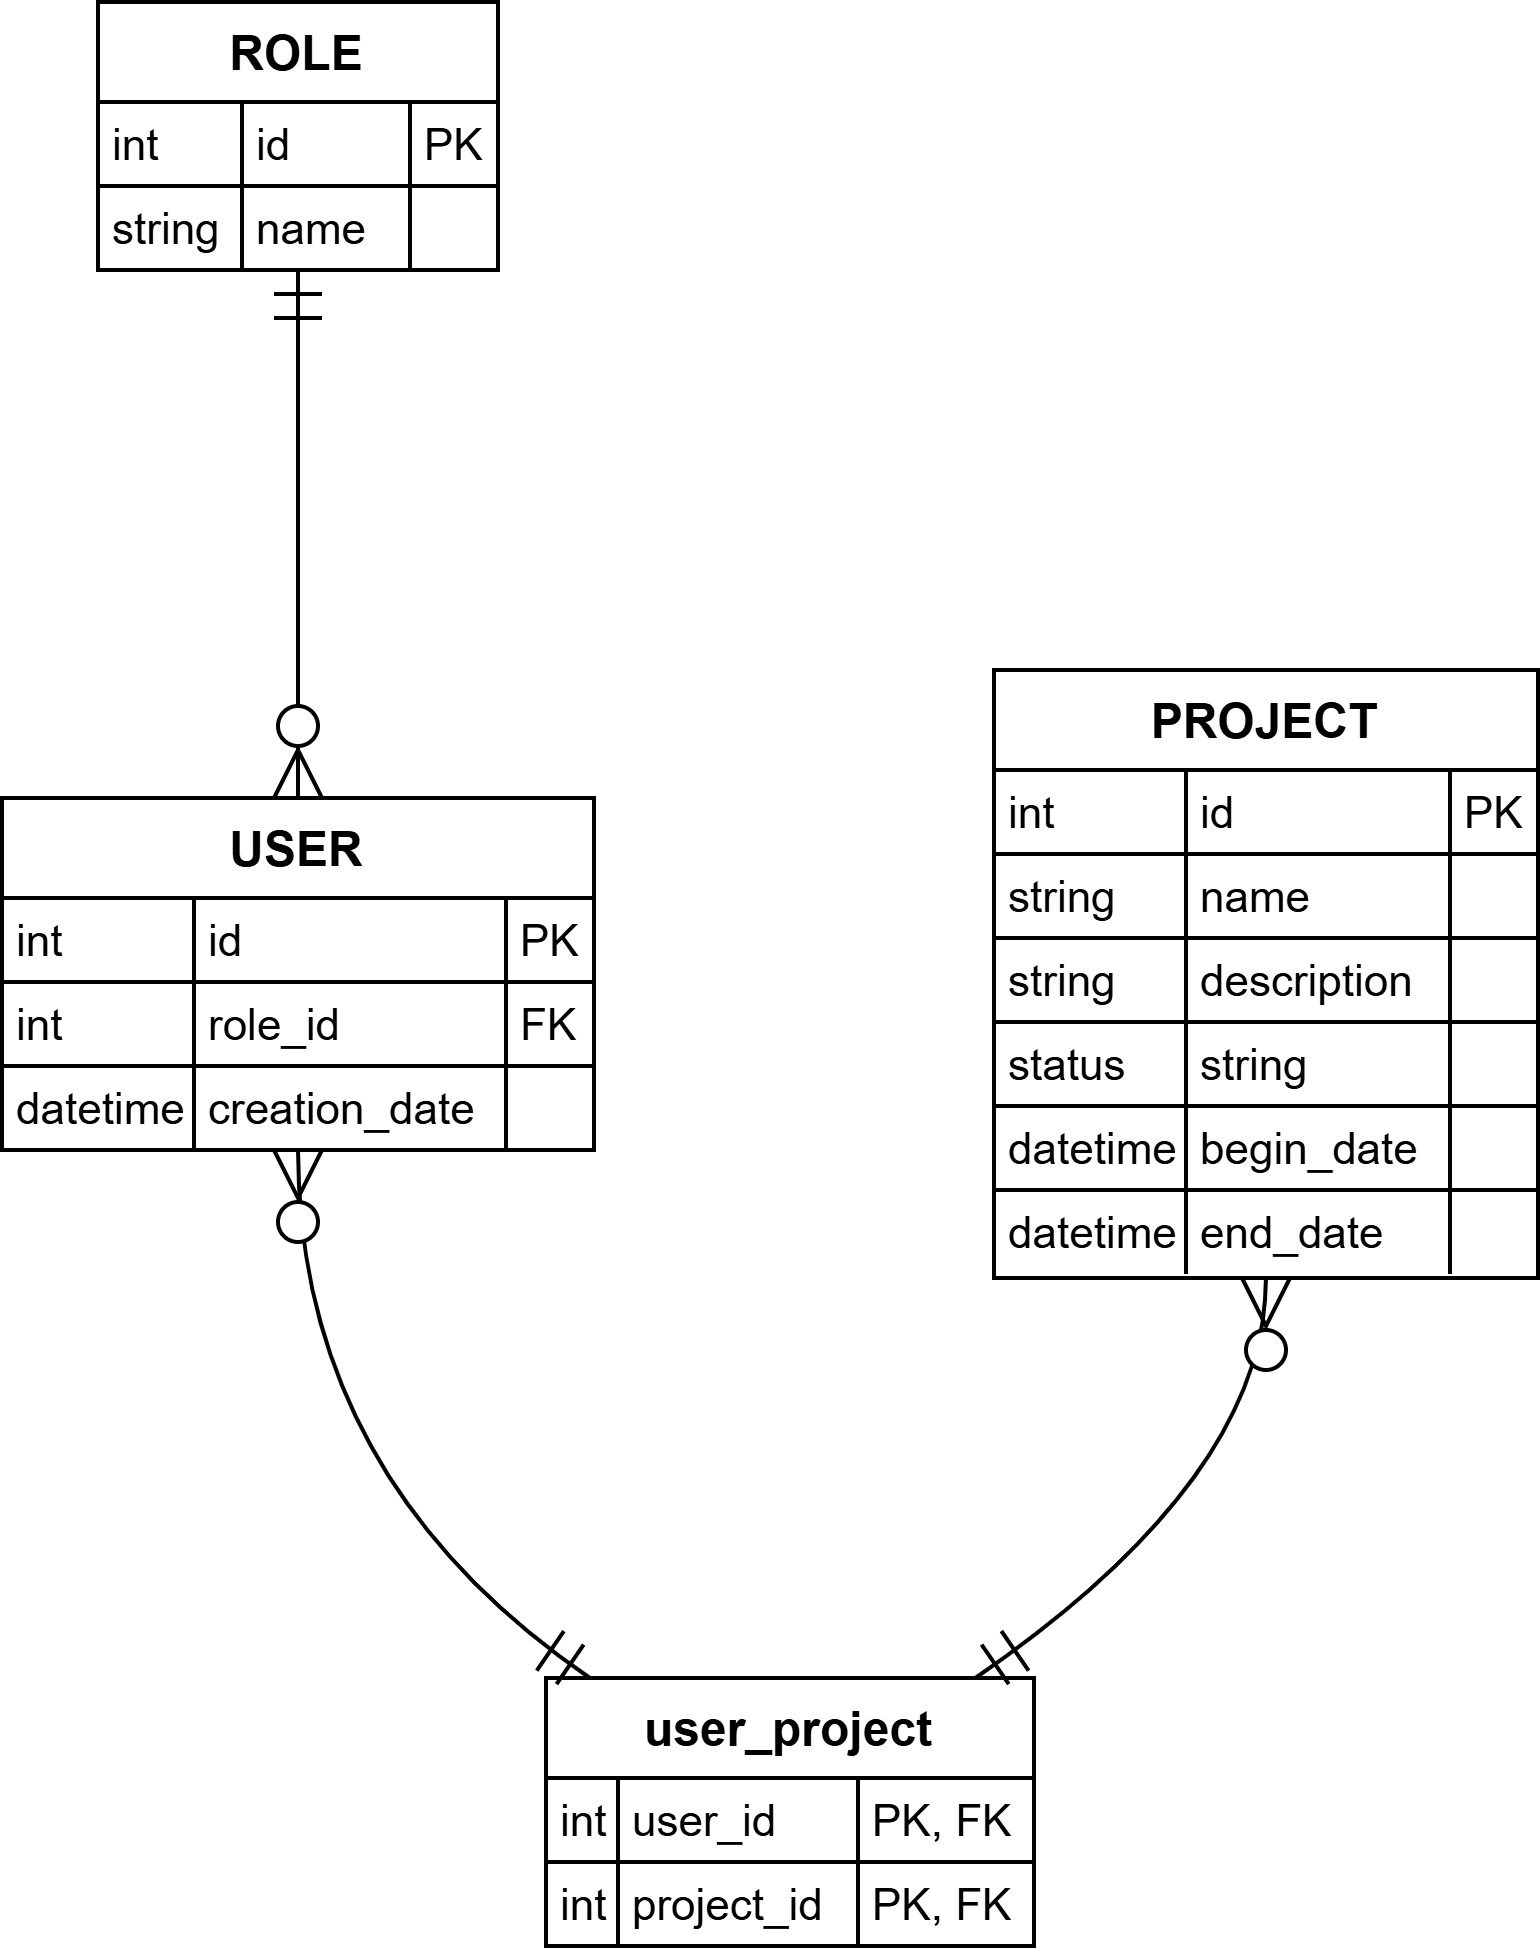
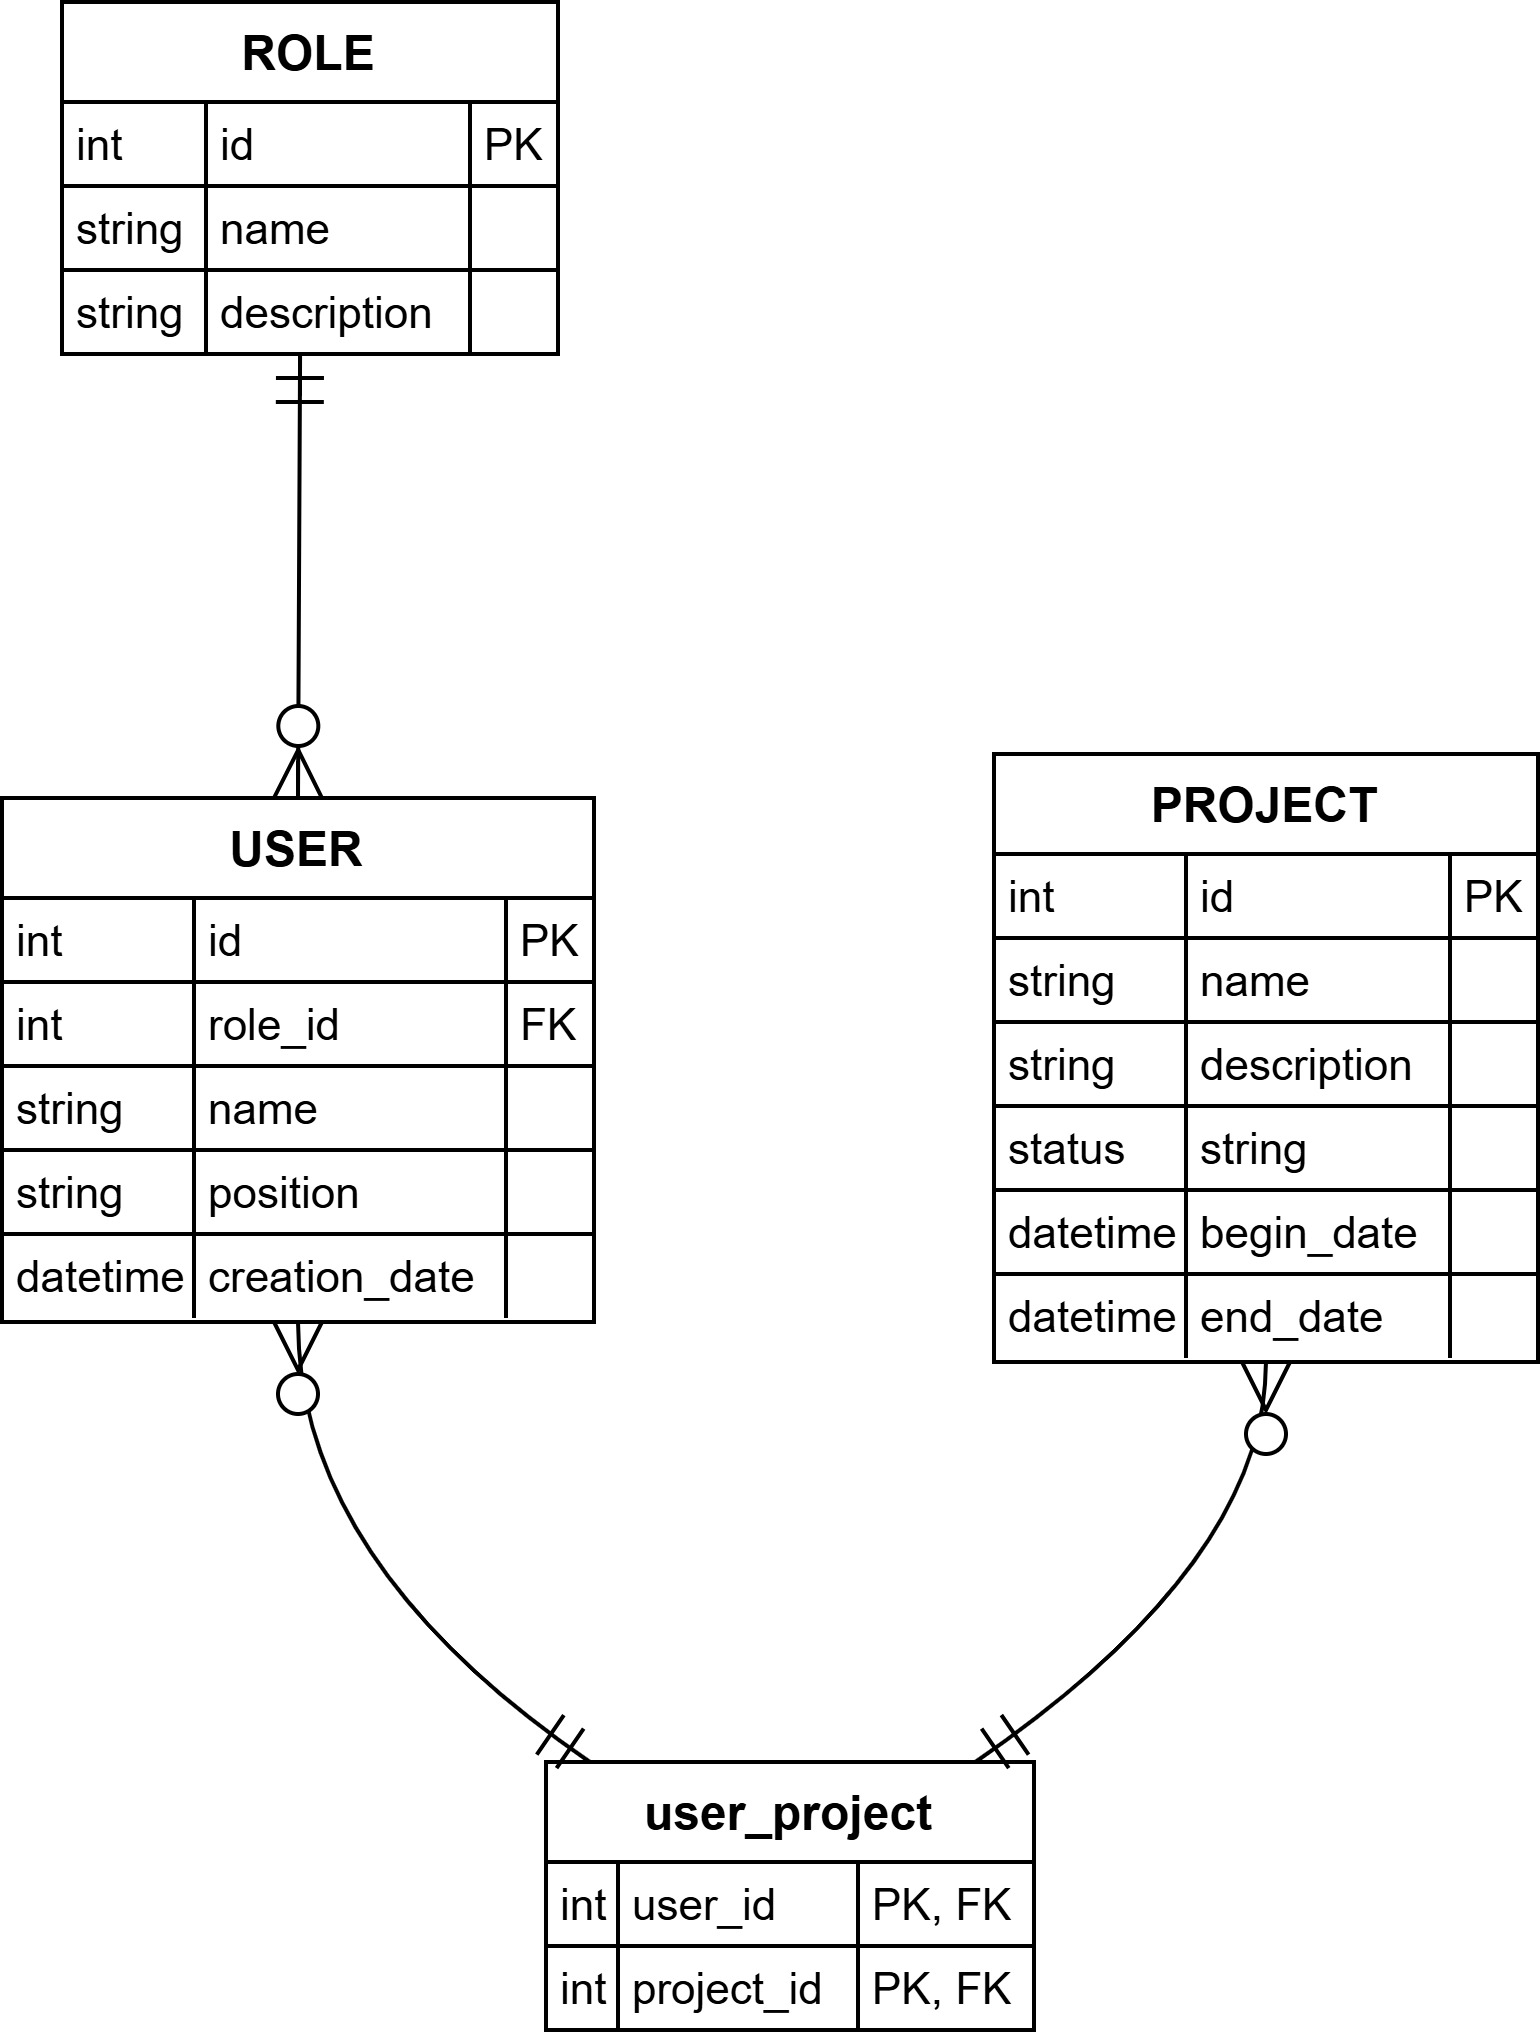
Agrego campos faltandes al DER

diff --git a/README.md b/README.md
@@ -62,6 +62,6 @@ Aquí podrás ver todos los endpoints disponibles, sus parámetros y probarlos d
 *   `/info`: Información básica de la API.
 *   `/healthcheck`: Endpoint de estado de salud.
 
-Diagrama Entidad Relación
+## Diagrama Entidad Relación
 
 ![DER](api_service/docs/erd.jpg)
